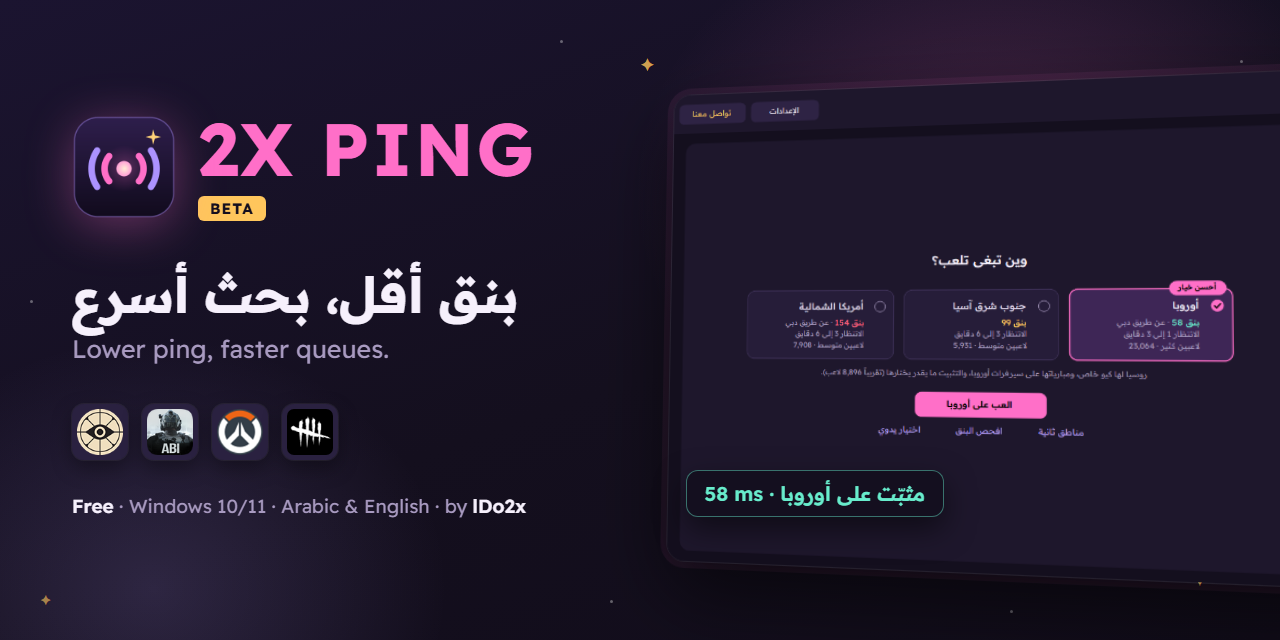
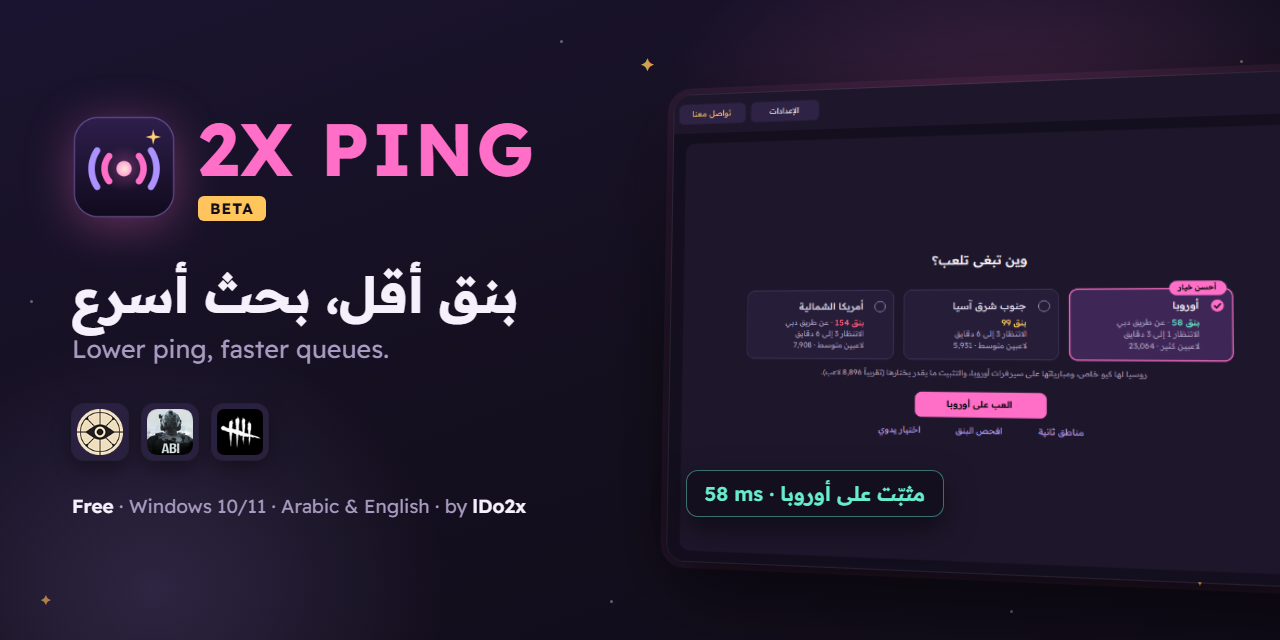
GitHub page for v0.13.0: fresh screenshots (no Overwatch, Arena Breakout and Dead by Daylight tags), social preview without Overwatch, Contact us in the features table, roadmap
The English header button now reads "Contact us", like the form it opens and the docs.
Screenshots are offscreen renders of the main window (Deadlock, simple layout) from the no-network harness.

Changed region(s): [[0.1562, 0.625, 0.2812, 0.7188]]

diff --git a/docs/social/social-preview.html b/docs/social/social-preview.html
@@ -67,7 +67,7 @@
     <div class="games">
       <!-- only the games released in the public version -->
       <img src="../../assets/games/deadlock.png" alt=""><img src="../../assets/games/abi.png" alt="">
-      <img src="../../assets/games/overwatch.png" alt=""><img src="../../assets/games/dbd.png" alt="">
+      <img src="../../assets/games/dbd.png" alt="">
     </div>
     <div class="foot"><b>Free</b> · Windows 10/11 · Arabic &amp; English · by <b>lDo2x</b></div>
   </div>

diff --git a/src/MainForm.cs b/src/MainForm.cs
@@ -348,7 +348,7 @@ namespace PingBoost
                 Visible = !simple && graphLive
             });
             header.Controls.Add(HeaderButton(T("Settings", "الإعدادات"), 120, Theme.TextC, OpenSettings));
-            header.Controls.Add(HeaderButton(T("Feedback", "تواصل معنا"), 120, Theme.Warn, () =>
+            header.Controls.Add(HeaderButton(T("Contact us", "تواصل معنا"), 120, Theme.Warn, () =>
             {
                 Telemetry.Send("use", null, -1, "feedback");
                 ContactDialog.Show(this, logBox.Text);

diff --git a/ROADMAP.md b/ROADMAP.md
@@ -4,16 +4,17 @@
 
 الخطة تتغيّر حسب ملاحظات اللاعبين. أرسل لنا رأيك من «تواصل معنا» داخل البرنامج.
 
-## الحين: 0.12 (تجريبية)
+## دحين: 0.13 (تجريبية)
 - [x] فحص البنق لكل مناطق ديدلوك
 - [x] تثبيت ديدلوك يعرف أقصر طريق، مع البنق المتوقع
 - [x] «وين ألعب؟» أثناء المباراة
 - [x] تقارير المباريات واكتشاف المشاكل تلقائياً
 - [x] تحديث بضغطة
+- [x] نموذج «تواصل معنا» داخل البرنامج
+- [x] خيار تخلي فيه الإحصائيات مجهولة
 
 ## الجاي
 - [ ] توقيع رقمي للبرنامج، عشان ويندوز ما يحجبه
-- [ ] نموذج «تواصل معنا» داخل البرنامج
 - [ ] إصلاح المشاكل اللي توصلنا من المختبرين والتقارير
 - [ ] ألعاب ثانية، بعد ما نتأكد إنها تشتغل بشكل كامل
 
@@ -29,16 +30,17 @@
 
 Plans change with player feedback. Send yours from Contact us inside the app.
 
-## Now: 0.12 (beta)
+## Now: 0.13 (beta)
 - [x] Ping test for every Deadlock region
 - [x] Route-aware Deadlock lock, with the ping to expect
 - [x] "Where am I playing?" during a match
 - [x] Automatic match reports and problem detection
 - [x] One-click updates
+- [x] In-app Contact us form
+- [x] An option to make the statistics anonymous
 
 ## Next
 - [ ] Code signing, so Windows doesn't block the app
-- [ ] In-app Contact us form
 - [ ] Fix the problems found by testers and reports
 - [ ] More games, once they work reliably
 

diff --git a/README.md b/README.md
@@ -55,6 +55,7 @@
 | 🕒 في شريط المهام | صغّره وإنت تلعب: يبقى في شريط المهام والتثبيت شغّال، وتشوف بنقك لما تحط الماوس على زره، ويومض لو في تنبيه مهم |
 | 🪶 خفيف | وهو مفتوح وما تستخدمه يصرف تقريباً 56KB نت بالساعة، ولما تكون داخل اللعبة يهدى: الفحص التلقائي يوقف لين ترجع له |
 | 💬 بدون نوافذ مزعجة | التنبيهات تطلع زي رسائل الشات في الألعاب وتختفي لحالها |
+| ✉ تواصل معنا | تكتب مشكلة أو فكرة أو سؤال داخل البرنامج وتضغط «أرسل»، وتوصلنا مع معلومات التشخيص |
 | ⚡ تحديث بضغطة | ينزّل النسخة الجديدة ويتأكد من بصمتها ويفتح من جديد في كم ثانية |
 | 🚀 تسريع عن طريق وسيط | في الوضع المتقدم: اتصال اللعبة بس يمشي من سيرفر VPS حقك لو طلع أسرع |
 | 🎛 على كيفك | تختار ألعابك من أول مرة، والوضع البسيط للاعب العادي، والمتقدم فيه كل الأدوات |

diff --git a/README.en.md b/README.en.md
@@ -54,6 +54,7 @@ Requires **Windows 10 or 11**. Nothing to install, and after that updates are on
 | 🕒 In the taskbar | Minimize it while you play: the lock keeps working, hovering its taskbar button shows your live ping, and important notices flash it |
 | 🪶 Light | Open and idle it uses about 56 KB of internet an hour; while you're in the game it stays quiet and the automatic check waits until you come back |
 | 💬 No annoying popups | Notices show up like game-chat lines and fade out by themselves |
+| ✉ Contact us | Write a problem, idea or question inside the app and press Send; it reaches us with the diagnostics |
 | ⚡ One-click updates | Downloads the new version, checks its SHA256 and reopens in seconds |
 | 🚀 Relay speed-up (Advanced) | Routes only the game's connection through your own VPS when that path is faster |
 | 🌐 Arabic & English | Full right-to-left Arabic interface |
